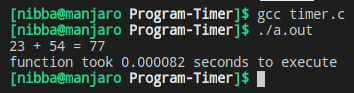
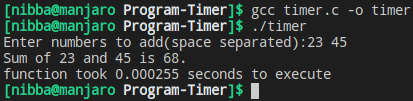
add dynamic input

diff --git a/C/Program-Timer/timer.c b/C/Program-Timer/timer.c
@@ -2,8 +2,11 @@
 #include<stdio.h>
 
 // Placeholer function to edit:
-void function(int a, int b){
-    printf("%d + %d = %d\n", a, b, a+b);
+void function(){
+    int a, b;
+    printf("Enter numbers to add(space separated):");
+    scanf("%d %d", &a, &b);
+    printf("Sum of %d and %d is %d.\n", a, b, a+b);
 }
 
 int main(int argc, char *argv[])
@@ -13,7 +16,7 @@ int main(int argc, char *argv[])
     and time the function.
     */
     clock_t start = clock();
-    function(23, 54);
+    function();
     clock_t end = clock();
 
     // Divide clock difference with CLOCKS_PER_SEC to convert time to seconds
